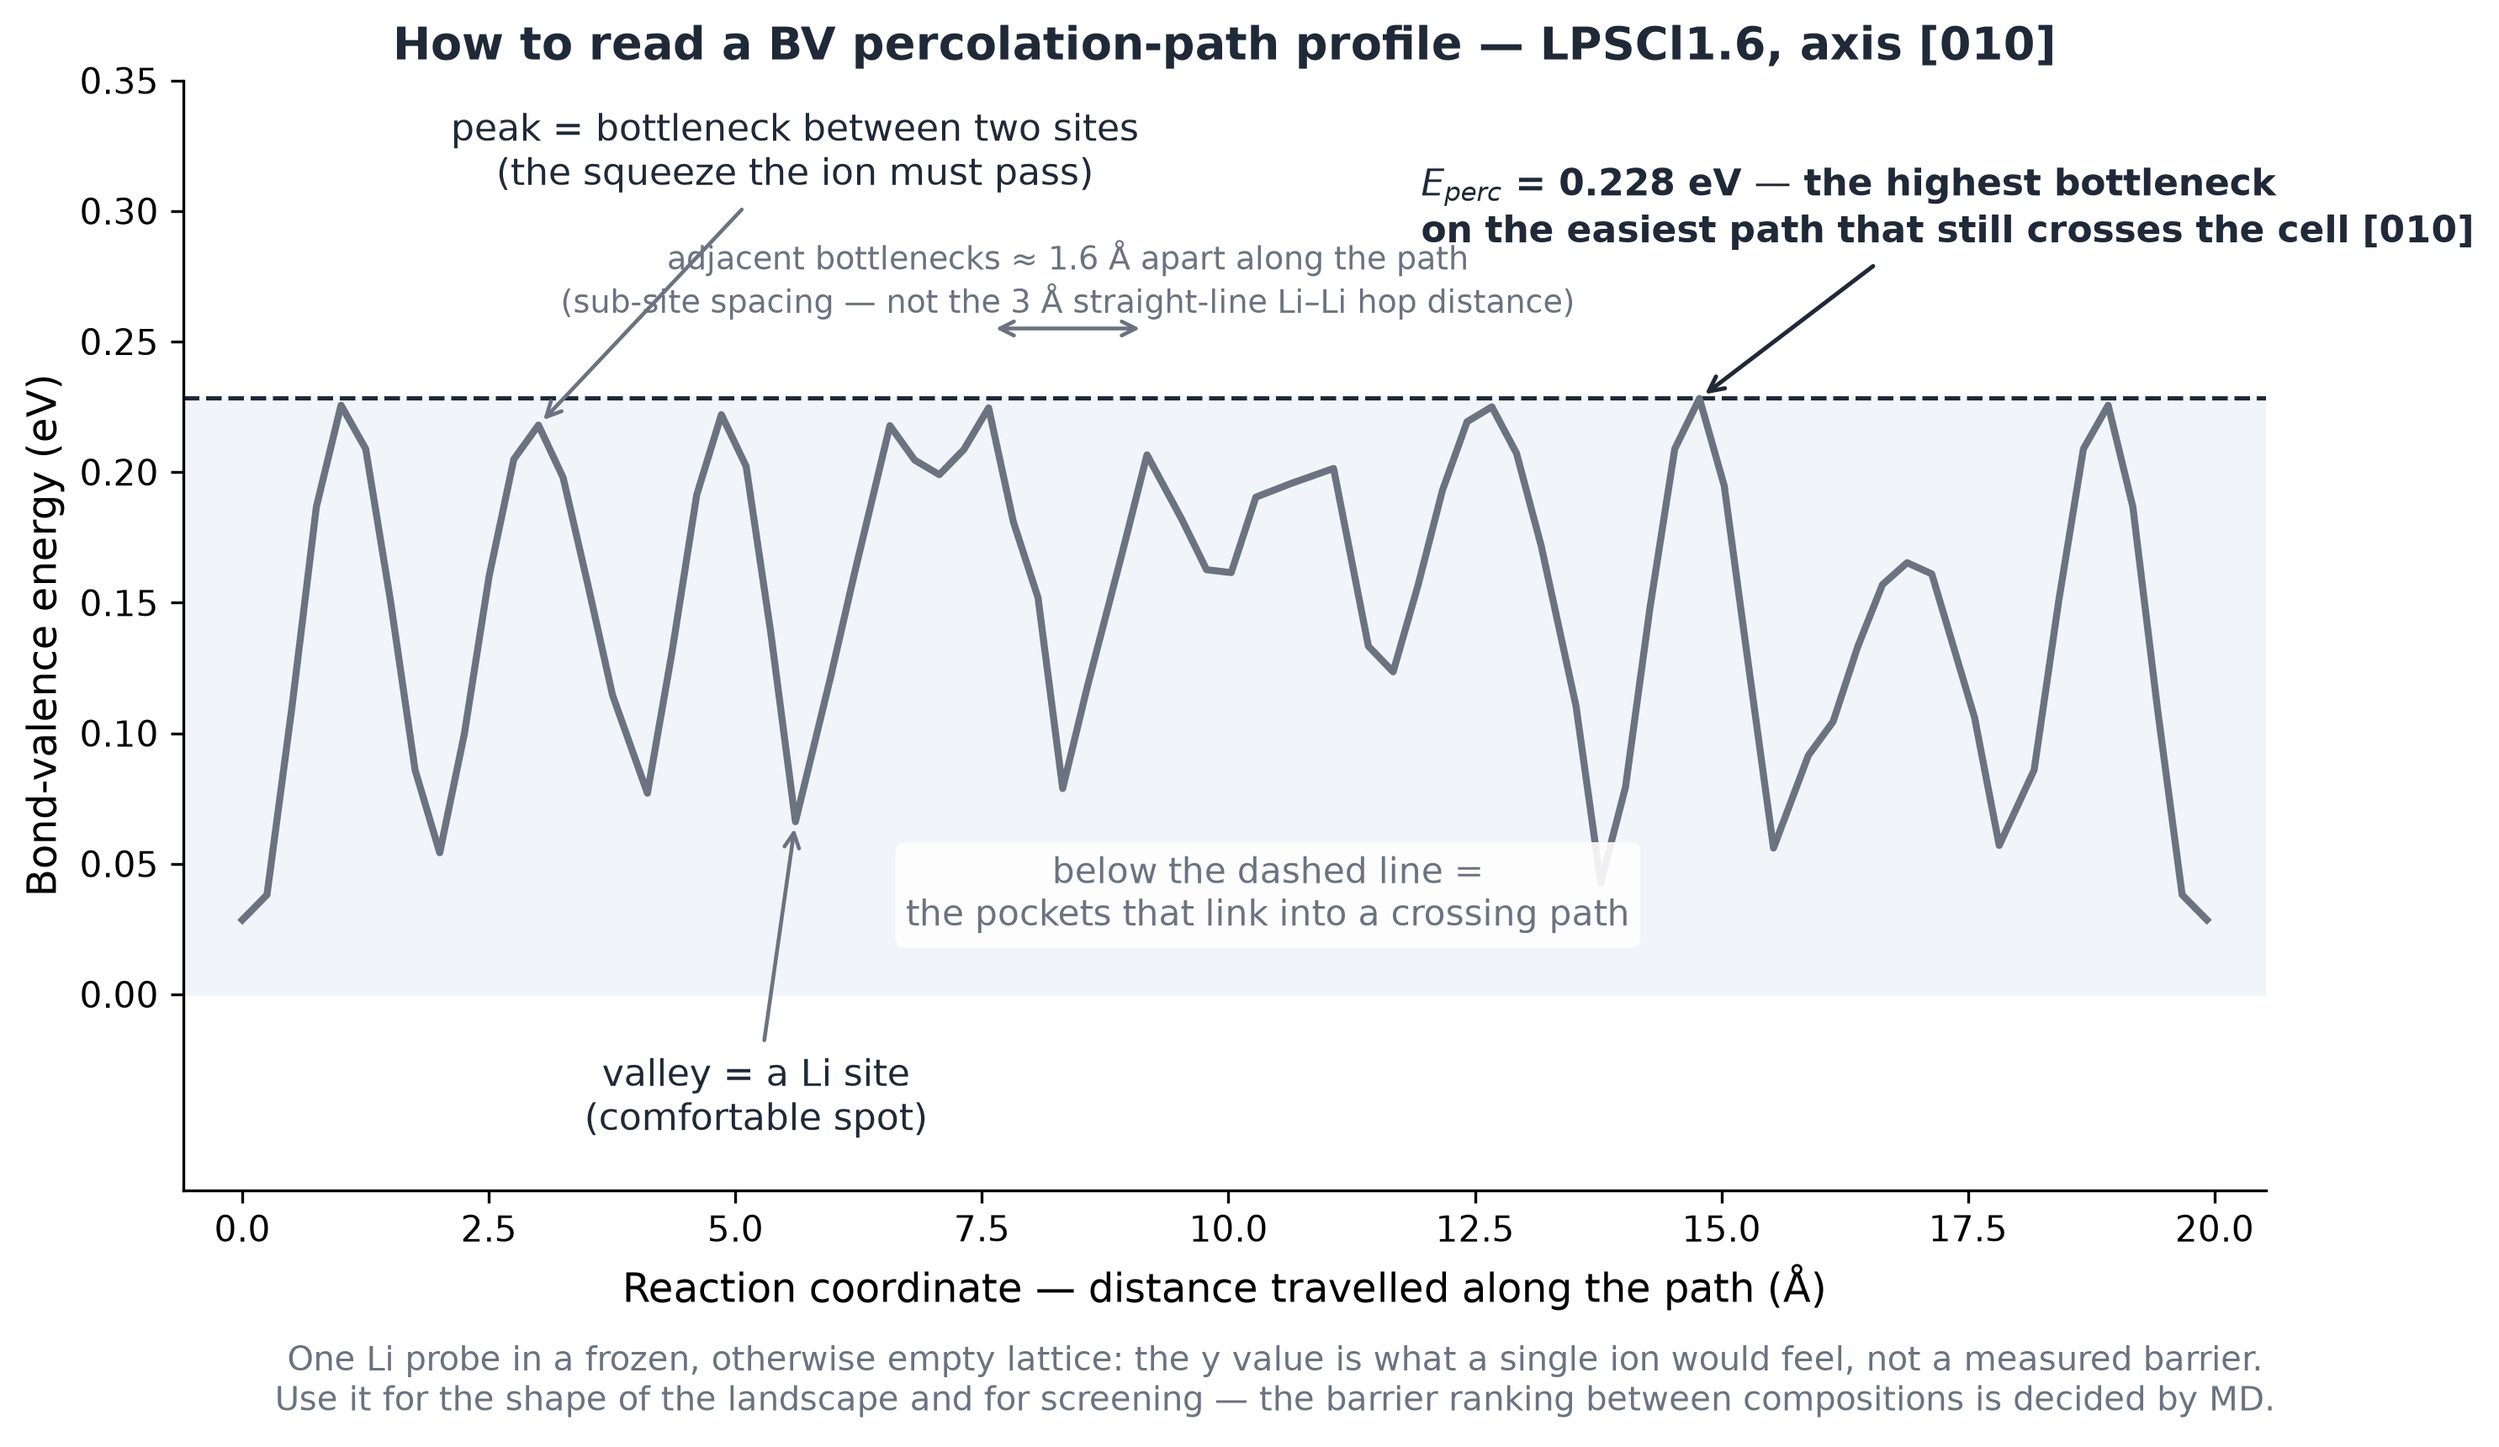
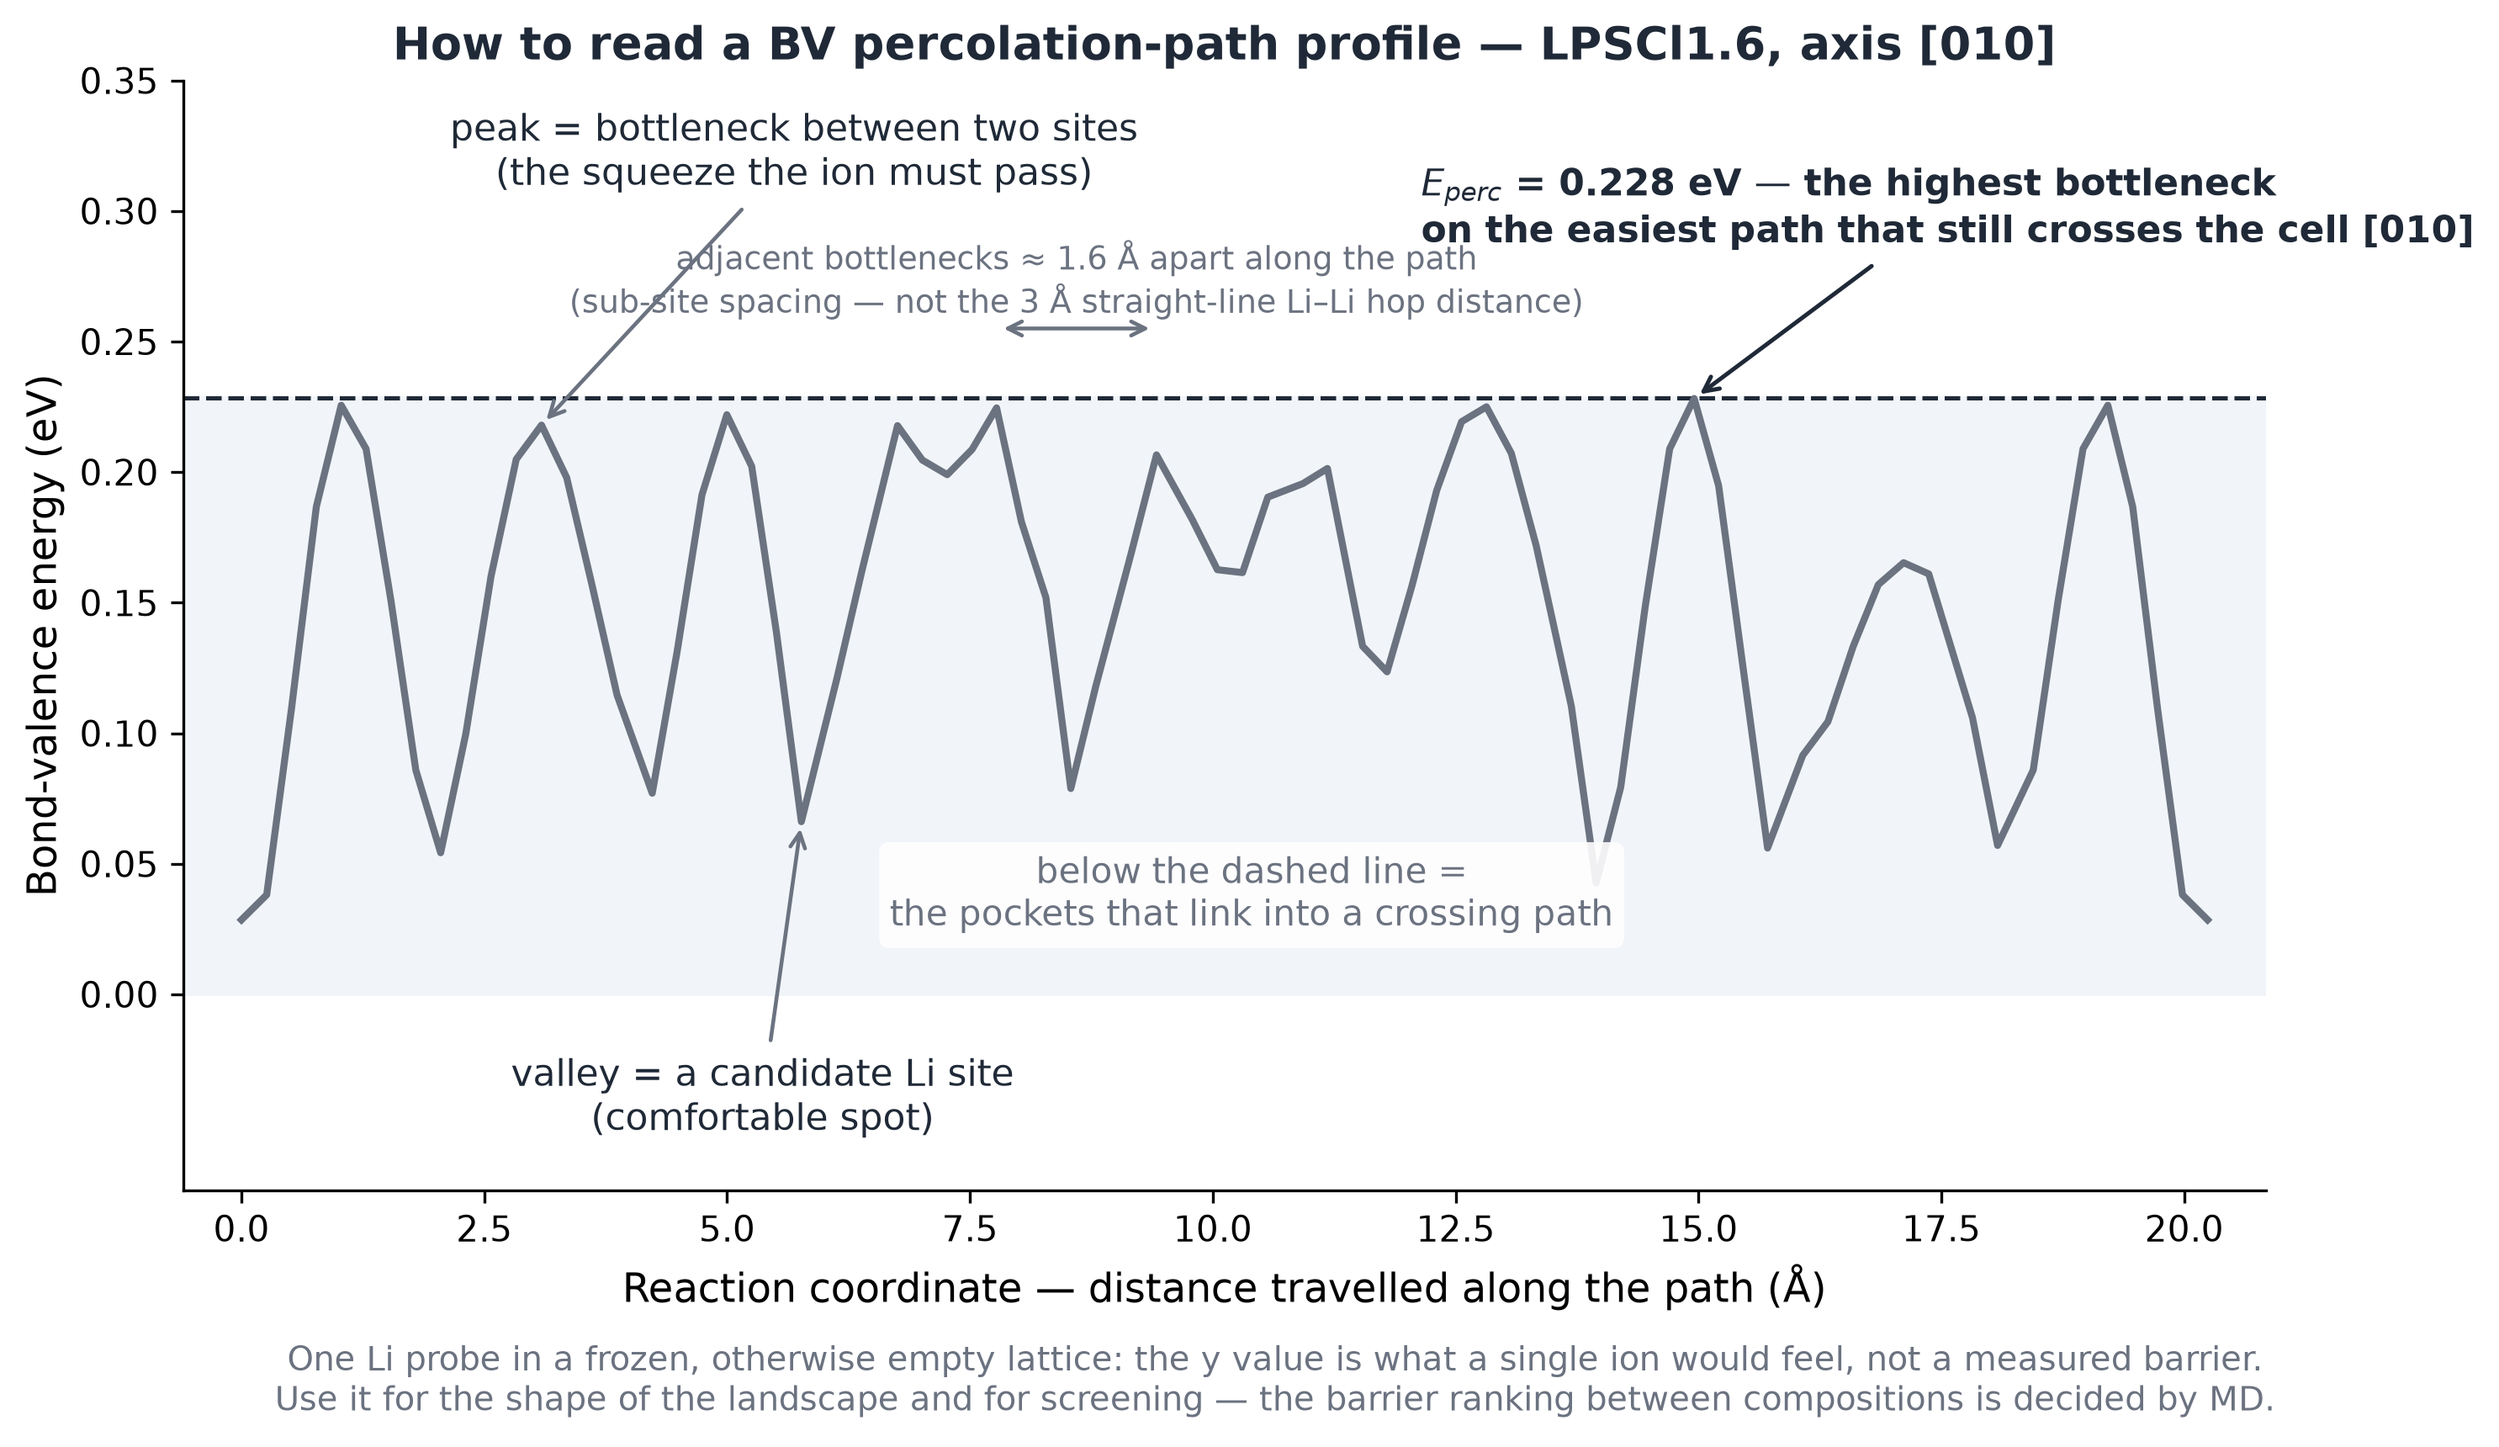
review: 리뷰 ② 반영 — bvlain mesh metric 보정(cell/(N-1), 경계 스텝 0 Å) + 경로 길이 27.7/20.2/9.8/22.0 재등록 + 낡은 2패널 재생성 + 골짜기=후보자리 표기

diff --git a/tools/figures/fig_bv_path_profile.py b/tools/figures/fig_bv_path_profile.py
@@ -266,14 +266,30 @@ def profile_for(name, path_cif):
     #   고침: 이웃 간 인덱스 차를 {-1,0,1} 로 되돌린 뒤(26-이웃이므로 그게 참값)
     #   그 차분만 데카르트로 환산해 누적한다. E 값·E_perc·순위는 영향 없다
     #   (같은 voxel 을 지나므로) — 바뀌는 건 x축과 경로 길이뿐이다.
+    #
+    # ⚠ metric (2026-08-05 리뷰 ISSUE-1 반영): bvlain `_mesh` 는 linspace(0,1,N)
+    #   **양끝 포함**이라 물리 voxel 간격은 cell/(N-1) 이고, 인덱스 0 과 N-1 은
+    #   **같은 평면**이다 (실측 max|E[0]-E[-1]| ~ 1e-11). 따라서
+    #   (i) 일반 스텝 = cell/(N-1), (ii) 경계를 넘거나 복제 이음새를 지나는 스텝은
+    #   물리적으로 0 Å. cell/N 로 나누면 길이가 계별 +0.1 ~ -4.2% 틀어진다(lpsocl 최대).
+    #   dijkstra 가중치(slen)는 인덱스-metric 그대로 둔다 — 경로 '선택'에만 관여하고
+    #   E_perc·프로파일 E 와 무관 (comp1 은 등방 N 이라 선택 불변).
     idx = np.array(path, int)
-    dif = np.diff(idx, axis=0)
+    phys = np.empty_like(idx)
     for d_ax in range(3):
-        n_ax = E2.shape[d_ax]
-        dif[:, d_ax] = (dif[:, d_ax] + n_ax // 2) % n_ax - n_ax // 2   # 최소상 (MIC)
+        n_ax = N[d_ax]
+        if d_ax in open_axes:               # 2배 확장축: 복제 이음새(N-1 ≡ N) = 같은 평면
+            phys[:, d_ax] = (idx[:, d_ax] // n_ax) * (n_ax - 1) + idx[:, d_ax] % n_ax
+        else:                               # 주기축: 유일 평면 수 = N-1 (0 ≡ N-1)
+            phys[:, d_ax] = idx[:, d_ax] % (n_ax - 1)
+    dif = np.diff(phys, axis=0)
+    for d_ax in range(3):
+        if d_ax not in open_axes:           # 주기축 MIC (주기 = N-1)
+            m = N[d_ax] - 1
+            dif[:, d_ax] = (dif[:, d_ax] + m // 2) % m - m // 2
     if np.abs(dif).max() > 1:
         raise SystemExit(f"⛔ {name}: 랩 해제 후에도 |Δindex|>1 — 경로가 26-이웃이 아니다")
-    step_cart = (dif / np.array(N)) @ cell
+    step_cart = (dif / (np.array(N) - 1.0)) @ cell
     d = np.concatenate([[0.0], np.cumsum(np.linalg.norm(step_cart, axis=1))])
     e = np.array([E2[tuple(p)] for p in path])
     wind = "[" + "".join(str(x) for x in T) + "]"
@@ -304,10 +320,11 @@ def main():
                 'then min-energy-line-integral path under that ceiling."\n')
         f.write('"# EMPTY-LATTICE PROXY: absolute scale plausible, family sigma/Ea ranking is '
                 'decided by MD (kb/concepts/bvse.md sec 8-9)."\n')
-        f.write('"# 2026-08-05 FIX: reaction coordinate is now PBC-unwrapped. Before the fix a '
-                'cell-crossing step was counted as a full cell-edge jump, which drew a FAKE FLAT '
-                'PLATEAU (comp1 2x9.80 A = 42% of the plotted length; lpsocl 2x6.68 A = 58%). '
-                'Path lengths comp1 46.7->27.6 A, lpsocl 23.1->10.2 A. E_perc / rankings unchanged."\n')
+        f.write('"# 2026-08-05 FIX(2): reaction coordinate is PBC-unwrapped AND uses the bvlain '
+                'mesh metric (endpoint-inclusive grid: spacing cell/(N-1); boundary/seam-crossing '
+                'steps are 0 A - same physical plane). Pre-fix fake plateaus: comp1 2x9.80 A = 42% '
+                'of plotted length, lpsocl 2x6.68 A = 58% (jump = |lattice vector| x (N-1)/N, '
+                'independently verified). E_perc / E values / rankings unchanged by both fixes."\n')
         for s, r in res.items():
             f.write(f'"# {s}: axis {r["axis"]}, E_perc {r["E_perc"]:.4f} eV; '
                     f'bvlain E_1D/2D/3D {r["ref"]["E_1D"]:.3f}/{r["ref"]["E_2D"]:.3f}/'

diff --git a/tools/figures/fig_bv_path_explainer.py b/tools/figures/fig_bv_path_explainer.py
@@ -62,7 +62,7 @@ def main():
     imax = int(np.argmax(e))
 
     # ── 라벨 (영어만 — 하우스 규칙) ────────────────────────────────────
-    ax.annotate("valley = a Li site\n(comfortable spot)",
+    ax.annotate("valley = a candidate Li site\n(comfortable spot)",
                 xy=(d[vl[2]], e[vl[2]]), xytext=(d[vl[2]] - 0.4, -0.052),
                 ha="center", fontsize=10.5, color=INK,
                 arrowprops=dict(arrowstyle="->", color=MUT, lw=1.1))
